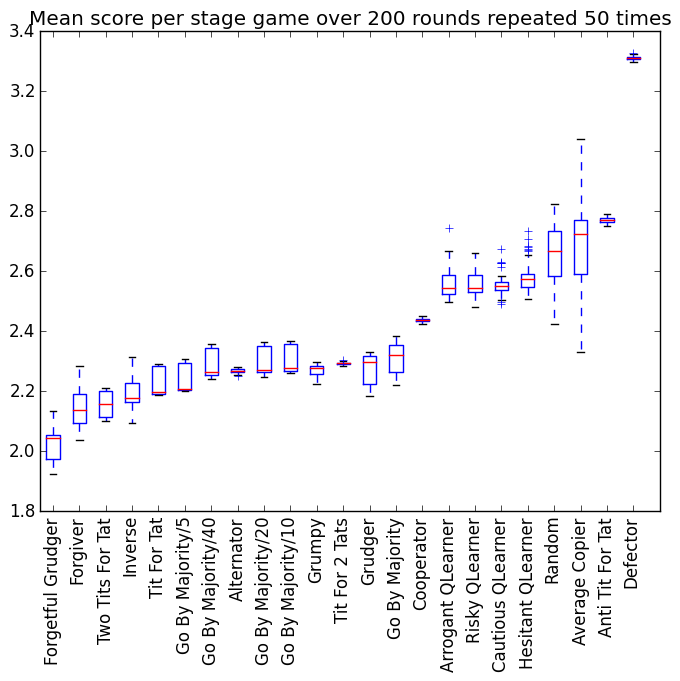
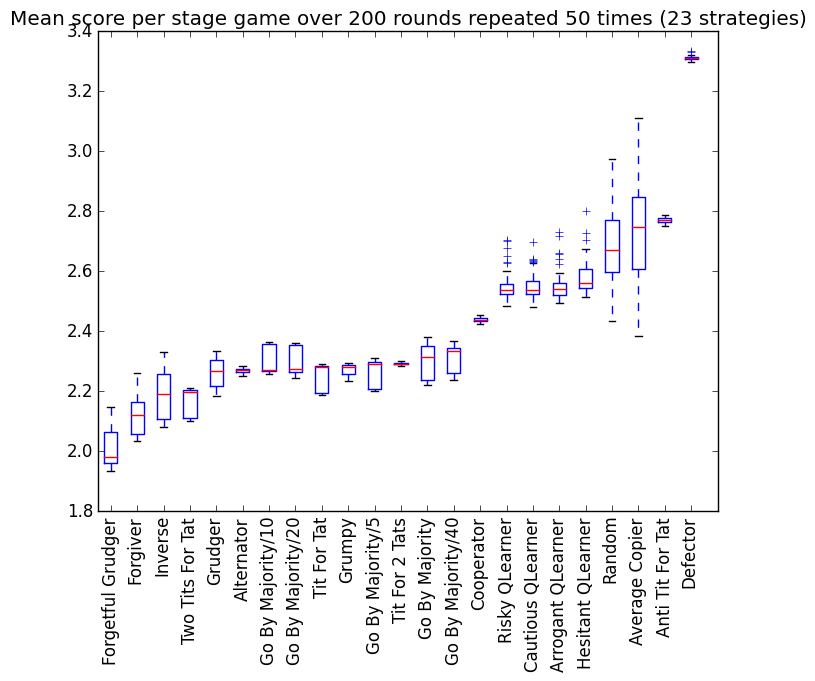
Adding number of strategies to the plots

diff --git a/run_tournament.py b/run_tournament.py
@@ -23,6 +23,6 @@ for plot in graphs_to_plot:
 
         plt.boxplot([[score / (turns * (len(players) - 1)) for score in results[player]] for player in players])
         plt.xticks(range(1, len(axelrod_tournament.players) + 2), [str(p) for p in players], rotation=90)
-        plt.title('Mean score per stage game over {} rounds repeated {} times'.format(turns, repetitions))
+        plt.title('Mean score per stage game over {} rounds repeated {} times ({} strategies)'.format(turns, repetitions, len(players)))
         plt.savefig(plot, bbox_inches='tight')
         plt.clf()
